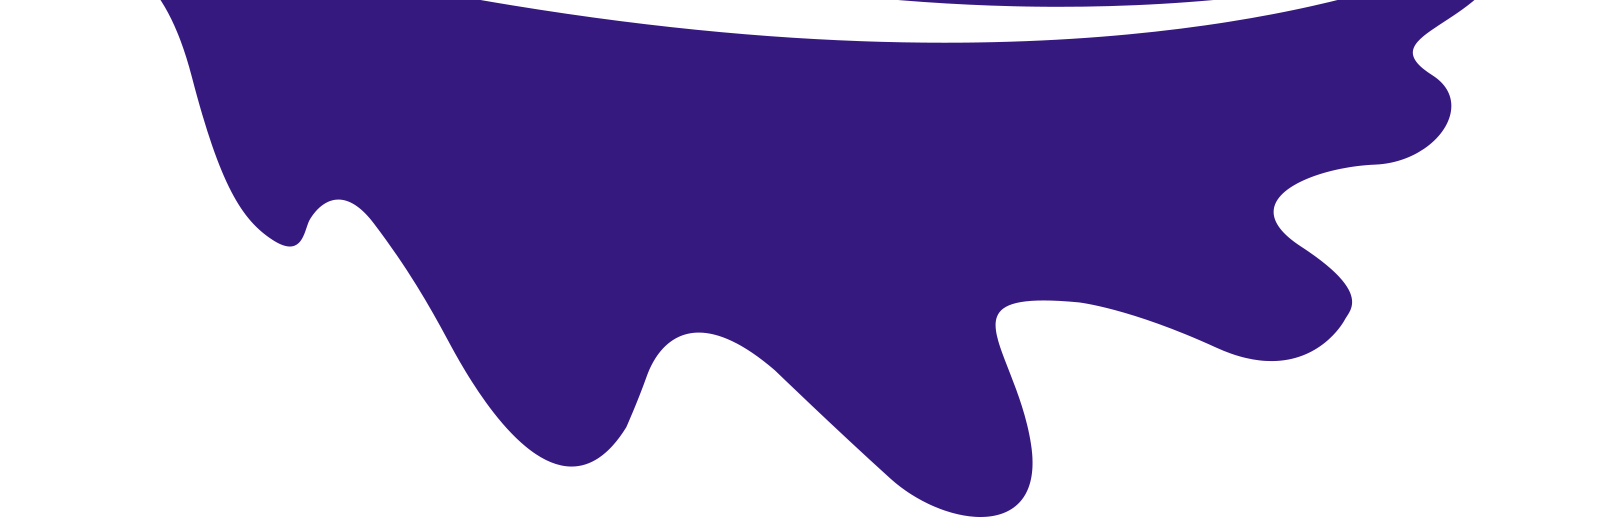
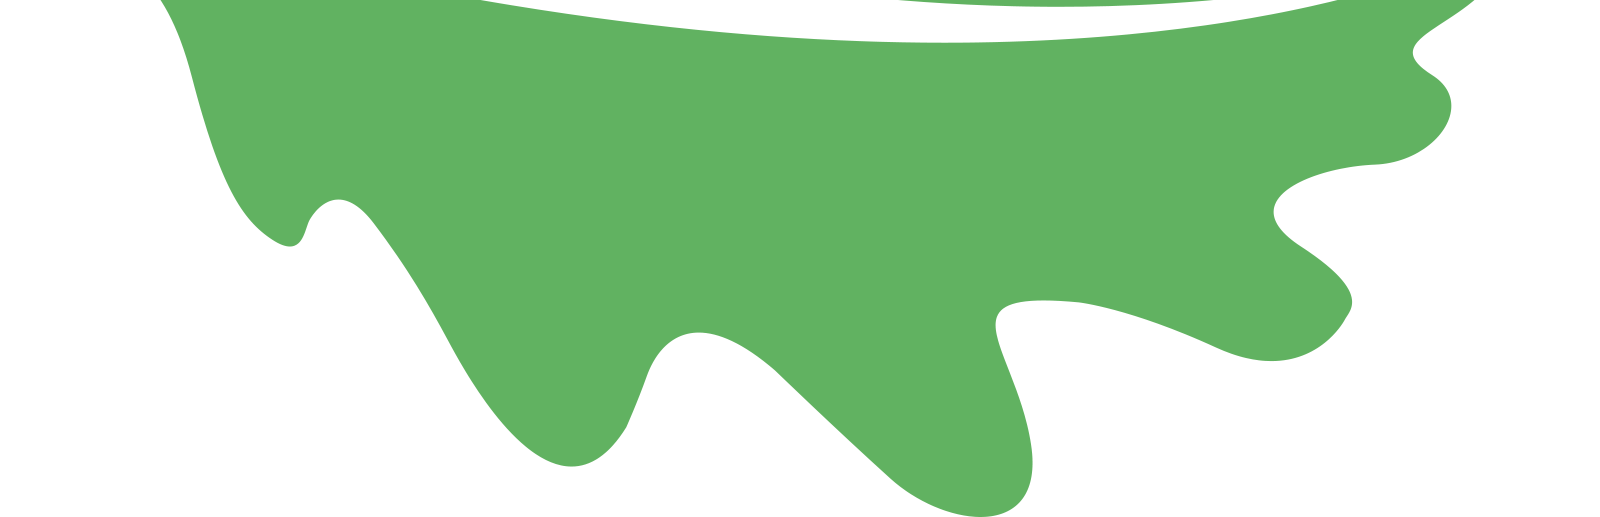
Change Bg Pic

diff --git a/scss/_variables.scss b/scss/_variables.scss
@@ -1,5 +1,5 @@
 // Color Variables
-$primary-color: #41228e;
+$primary-color: #8bd1da;
 $secondary-color: #2bfdff;
 $text-color: #4c4c4c;
 $text-color-dark: #000;
